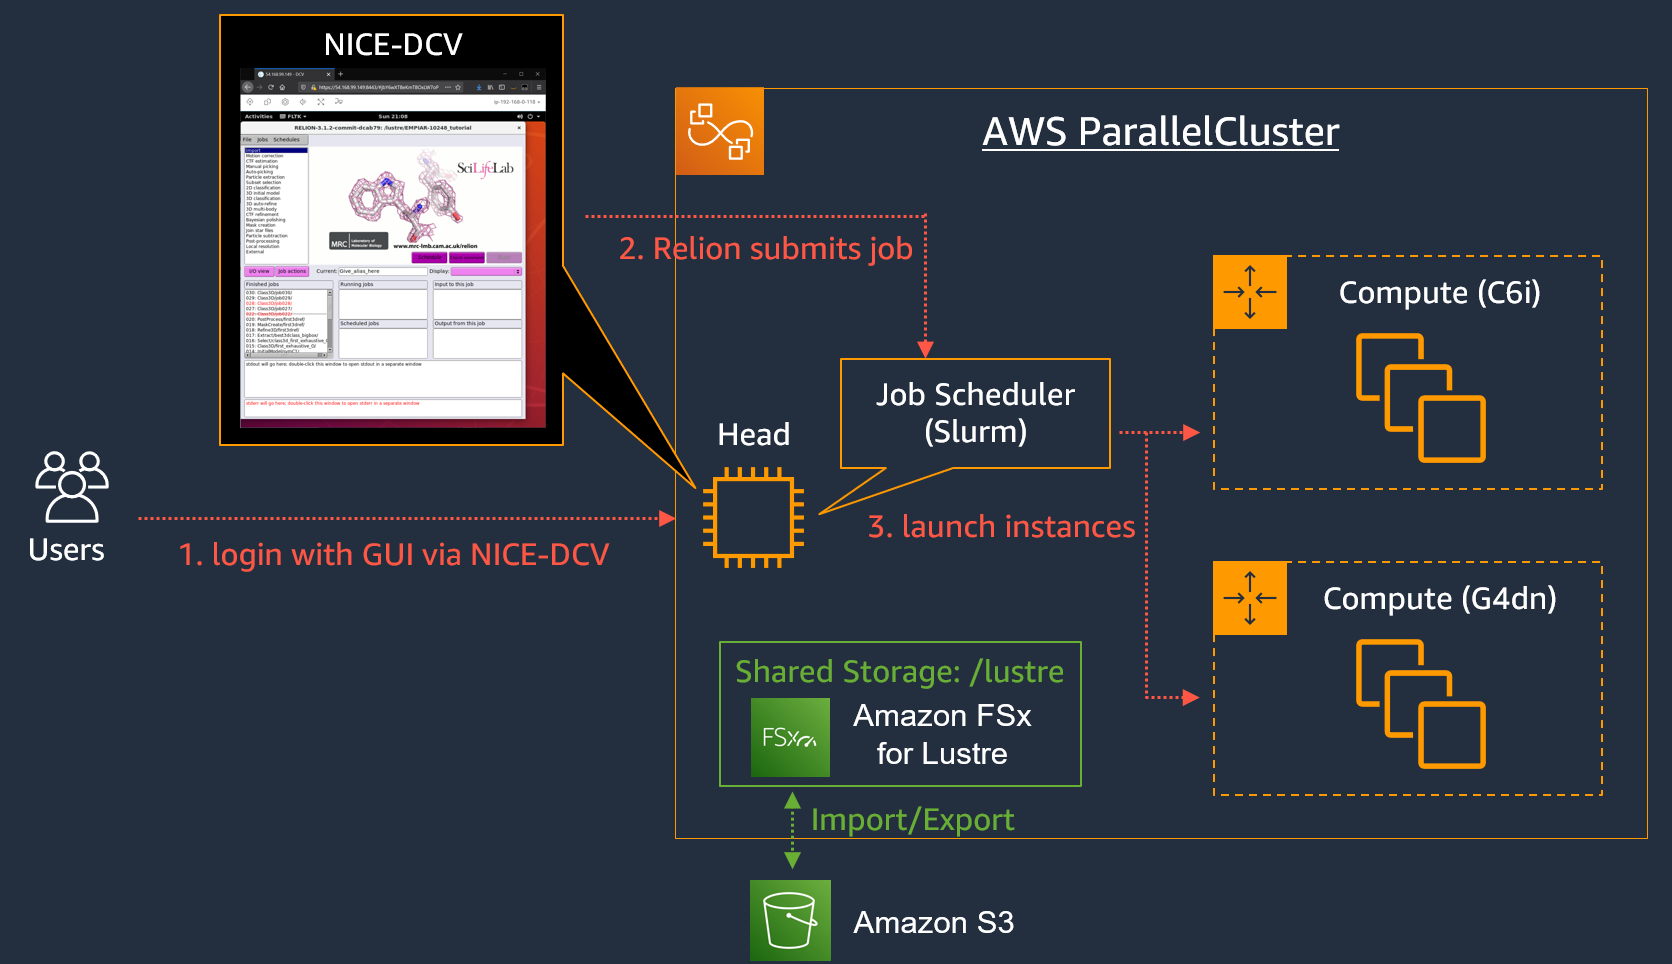
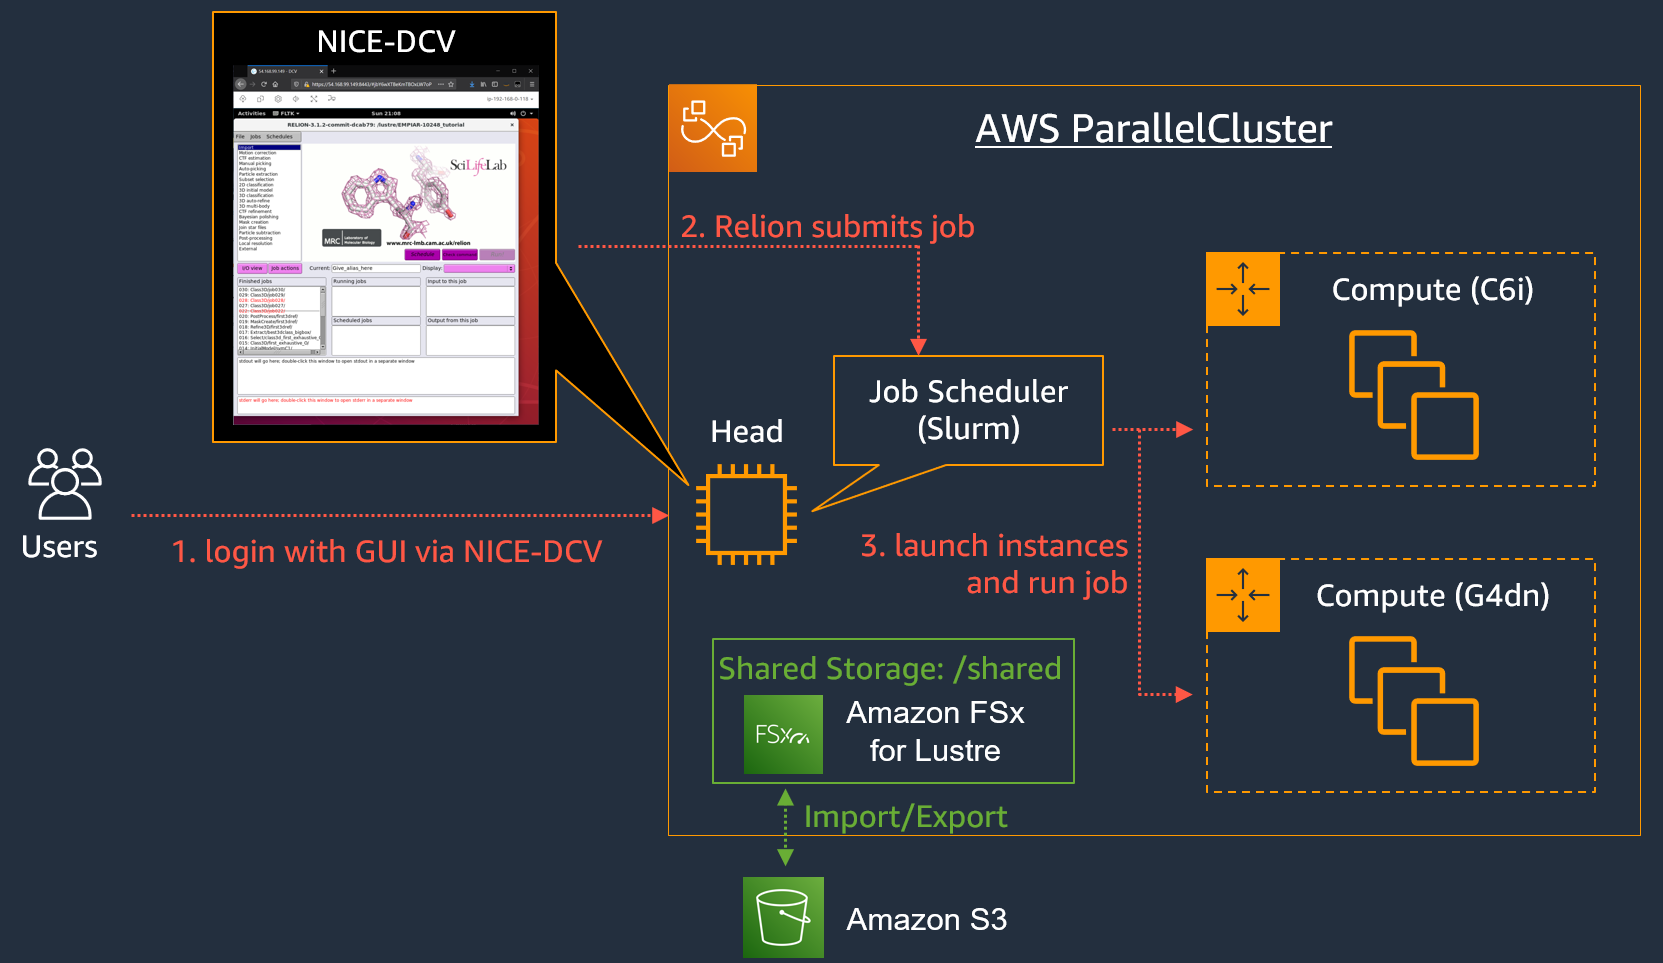
update readme

diff --git a/README.md b/README.md
@@ -9,11 +9,15 @@ set up example for Relion on AWS ParallelCluster
 
 ![Architecture Overview](images/relion_architecture.png)
 
+- :warning: **This tutorial environment does not includes FSx for Lustre / S3 integration**
+
 ## set by step guide
 
-### set up AWS ParallelCluster
+## Tutorial
 
-On AWS CloudShell,
+### 1. launch cluster
+
+On AWS CloudShell, run following commands for cluster creation.
 
 ```
 git clone https://github.com/DaisukeMiyamoto/aws-parallelcluster-relion
@@ -22,25 +26,34 @@ cd aws-parallelcluster-relion/01_setup_cluster
 source ~/.bashrc
 ```
 
-Check cluster status with
+You could check cluster status with following command.
+Cluster creation usually needs 5 to 10 minutes.
+If the `clusterStatus` become `CREATE_COMPLETE`, you could go to next step.
+
 ```
 pcluster describe-cluster --cluster-name ${PCLUSTER_CLUSTER_NAME}
 ```
 
-If the `clusterStatus` become `CREATE_COMPLETE`, you could go to next step.
 
+### 2. Run Relion with GUI via NICE-DCV
 
-### Run Relion with GUI via NICE-DCV
+#### 2.1 Login ParallelCluster via NICE-DCV
 
-Login ParallelCluster via NICE-DCV
+Run following command and open published URL to access NICE-DCV remote desktop environment.
 
 ```
 pcluster dcv-connect --cluster-name ${PCLUSTER_CLUSTER_NAME} --key-path ~/.ssh/${SSH_KEY}
 ```
 
+- If it is your first time to access the cluster, a message like `The authenticity of host '54.158.195.212 (54.158.195.212)' can't be established.` could be shown.
+You need to type `yes` and hitting enter.
+- On opening the NICE-DCV URL with browser, you will face `Your connection is not private` warning e.g. [image](images/chrome_warning.png).
+You need to click `Advanced` and `Proceed to <IP> (unsafe)` to open NICE-DCV desktop.
 
+#### 2.2 Install Relion
 
-On GUI terminal, 
+On NICE-DCV desktop, open **terminal** from Activities button on top left corner.
+Run following commands on the terminal for installing Relion.
 
 ```
 git clone https://github.com/DaisukeMiyamoto/aws-parallelcluster-relion
@@ -49,22 +62,47 @@ cd aws-parallelcluster-relion/02_relion_gui
 source ~/.bashrc
 ```
 
-- This figure show how relion job submission works with GUI and template files.
-![How relion job works](images/how_relion_job_works.png)
 
-:warning: **This compilation settings are not optimized. You need to customize for appropriate benchmarkings.**
+- :warning: **This compilation settings are not optimized. You need to customize for appropriate benchmarkings.**
 
 
-#### Use public data for demonstration
+#### 2.3 Use public data for demonstration
 
-- Download datasets
+Download datasets and launch Relion.
+
 ```
 cd /shared
-wget ftp://ftp.mrc-lmb.cam.ac.uk/pub/scheres/relion30_tutorial_precalculated_results.tar.gz
-tar xvf relion30_tutorial_precalculated_results.tar.gz
-cd relion30_tutorial_precalculated_results/
+wget ftp://ftp.mrc-lmb.cam.ac.uk/pub/scheres/relion31_tutorial_precalculated_results.tar.gz
+tar xvf relion31_tutorial_precalculated_results.tar.gz
+cd PrecalculatedResults
 relion &
 ```
+
+This dataset include all completed steps and intermediate files.
+You could run any process without input parameter settings.
+In this tutorial we will run **MotionCorr** process with batch job submission way.
+
+- 1. Click `002:MotionCorr/relioncor2/` in `Finished jobs` window to re-load MotionCorr settings.
+- 2. Click `Motion correction` in top-left corner to create a new settings.
+- 3. Open `Running` tab and set following parameters
+  - [Running] Tab
+    - Number of MPI procs: 1
+    - Number of threads: 8
+    - Submit to queue?: Yes
+    - Queue name: c6i-2xlarge
+    - Queue submit command: sbatch
+    - Standard submission script: /home/ubuntu/aws-parallelcluster-relion/02_relion_gui/gui_batch_template_slurm.sh
+- 4. Click `Run!` button to submit a new job.
+
+
+- This figure show how relion job submission works with GUI and template files.
+Relion GUI replace parameters (XXX)in template file
+![How relion job works](images/how_relion_job_works.png)
+
+
+After job submission, you could find new EC2 instance is launching on EC2 management console.
+You could also find your job status with `squeue` command.
+When the instance launched, you could check the job progress with output box on Relion [image](images/relion_outputs.png).
 
 
 ### benchmark Relion with compile optimization
@@ -73,7 +111,10 @@ TBU
 
 ### Clean up Environments
 
+TBU
+
 ```
+pcluster delete-cluster -n ${PCLUSTER_CLUSTER_NAME}
 aws s3 rm s3://${BUCKET_NAME} --recursive
 aws s3 rb s3://${BUCKET_NAME}
 aws ec2 delete-key-pair --key-name ${SSH_KEY}
